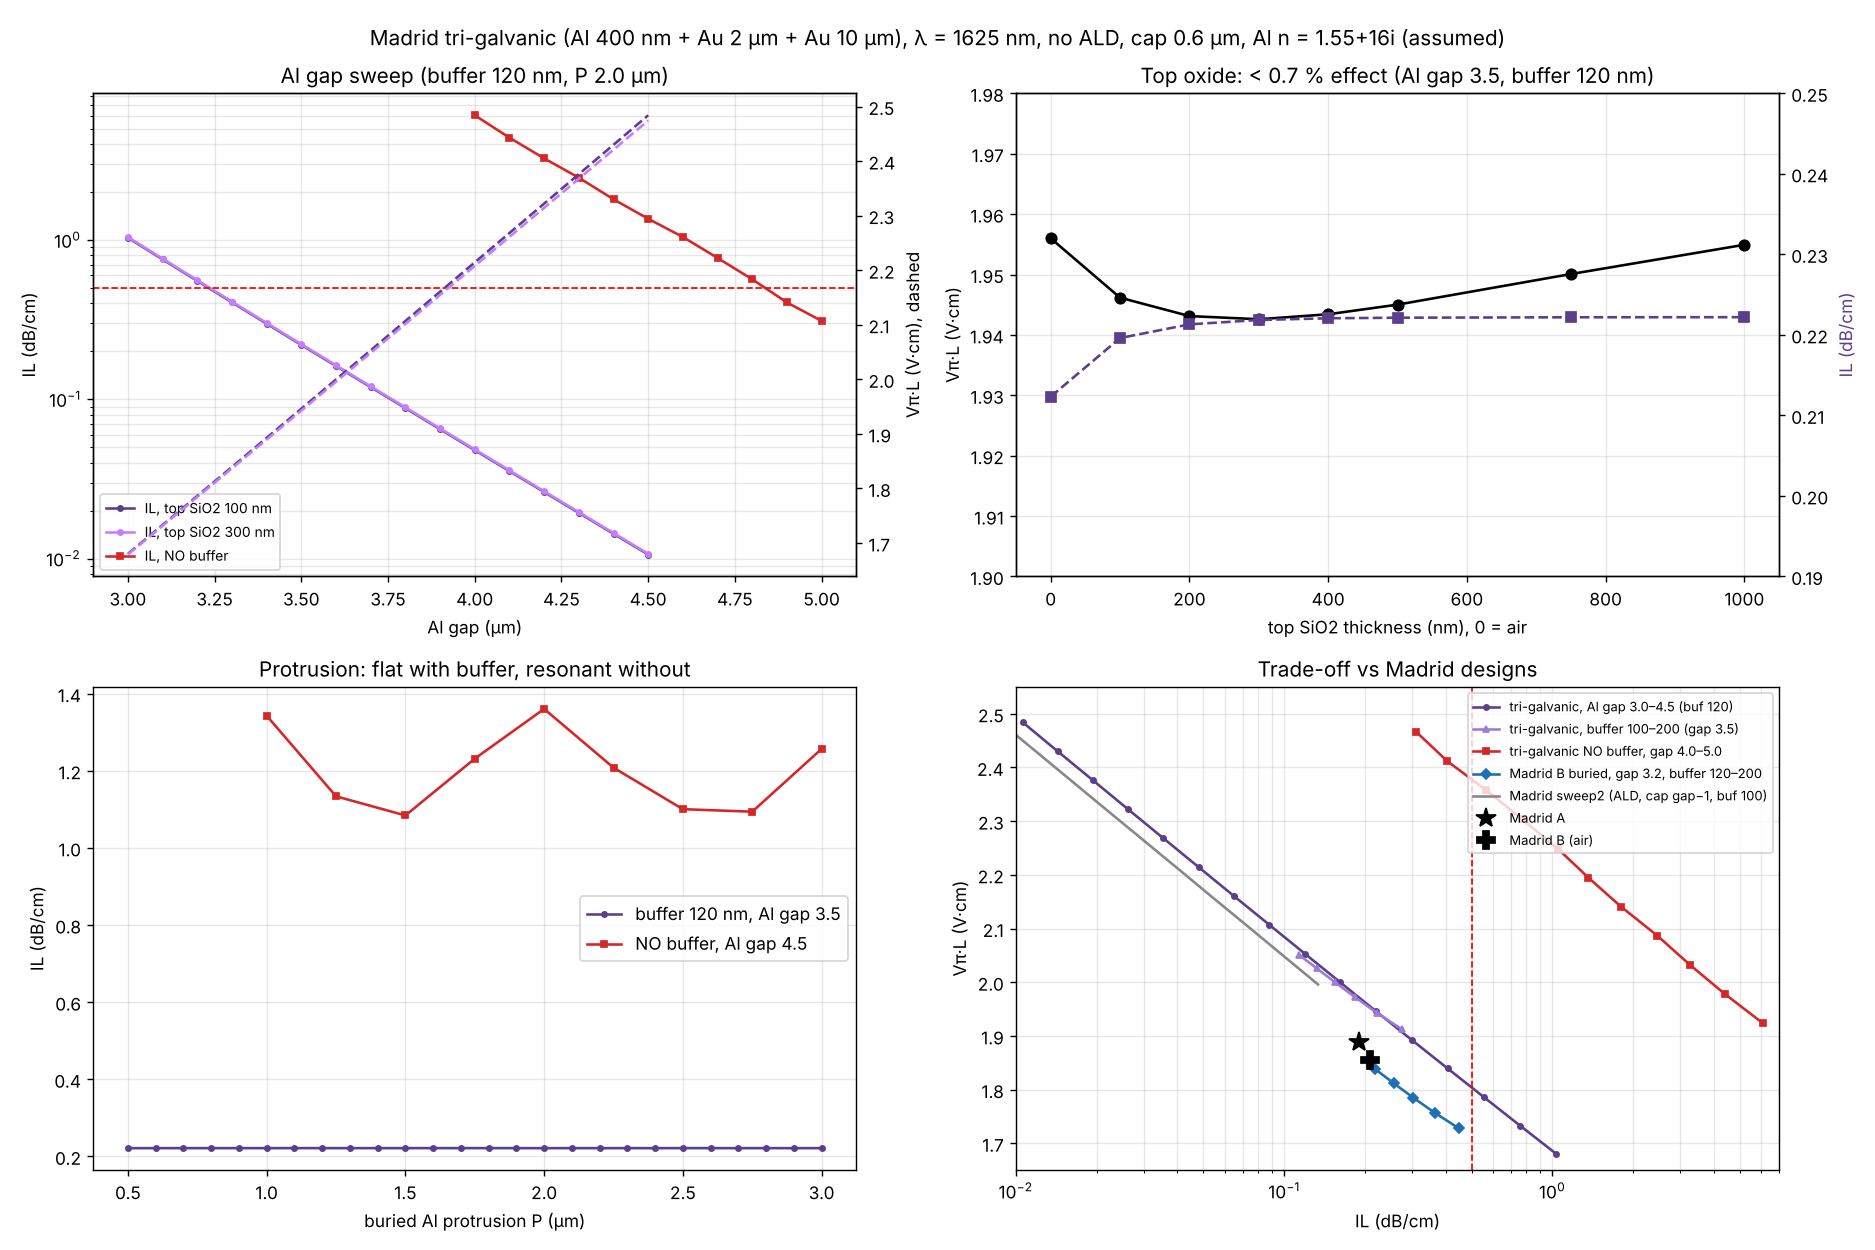
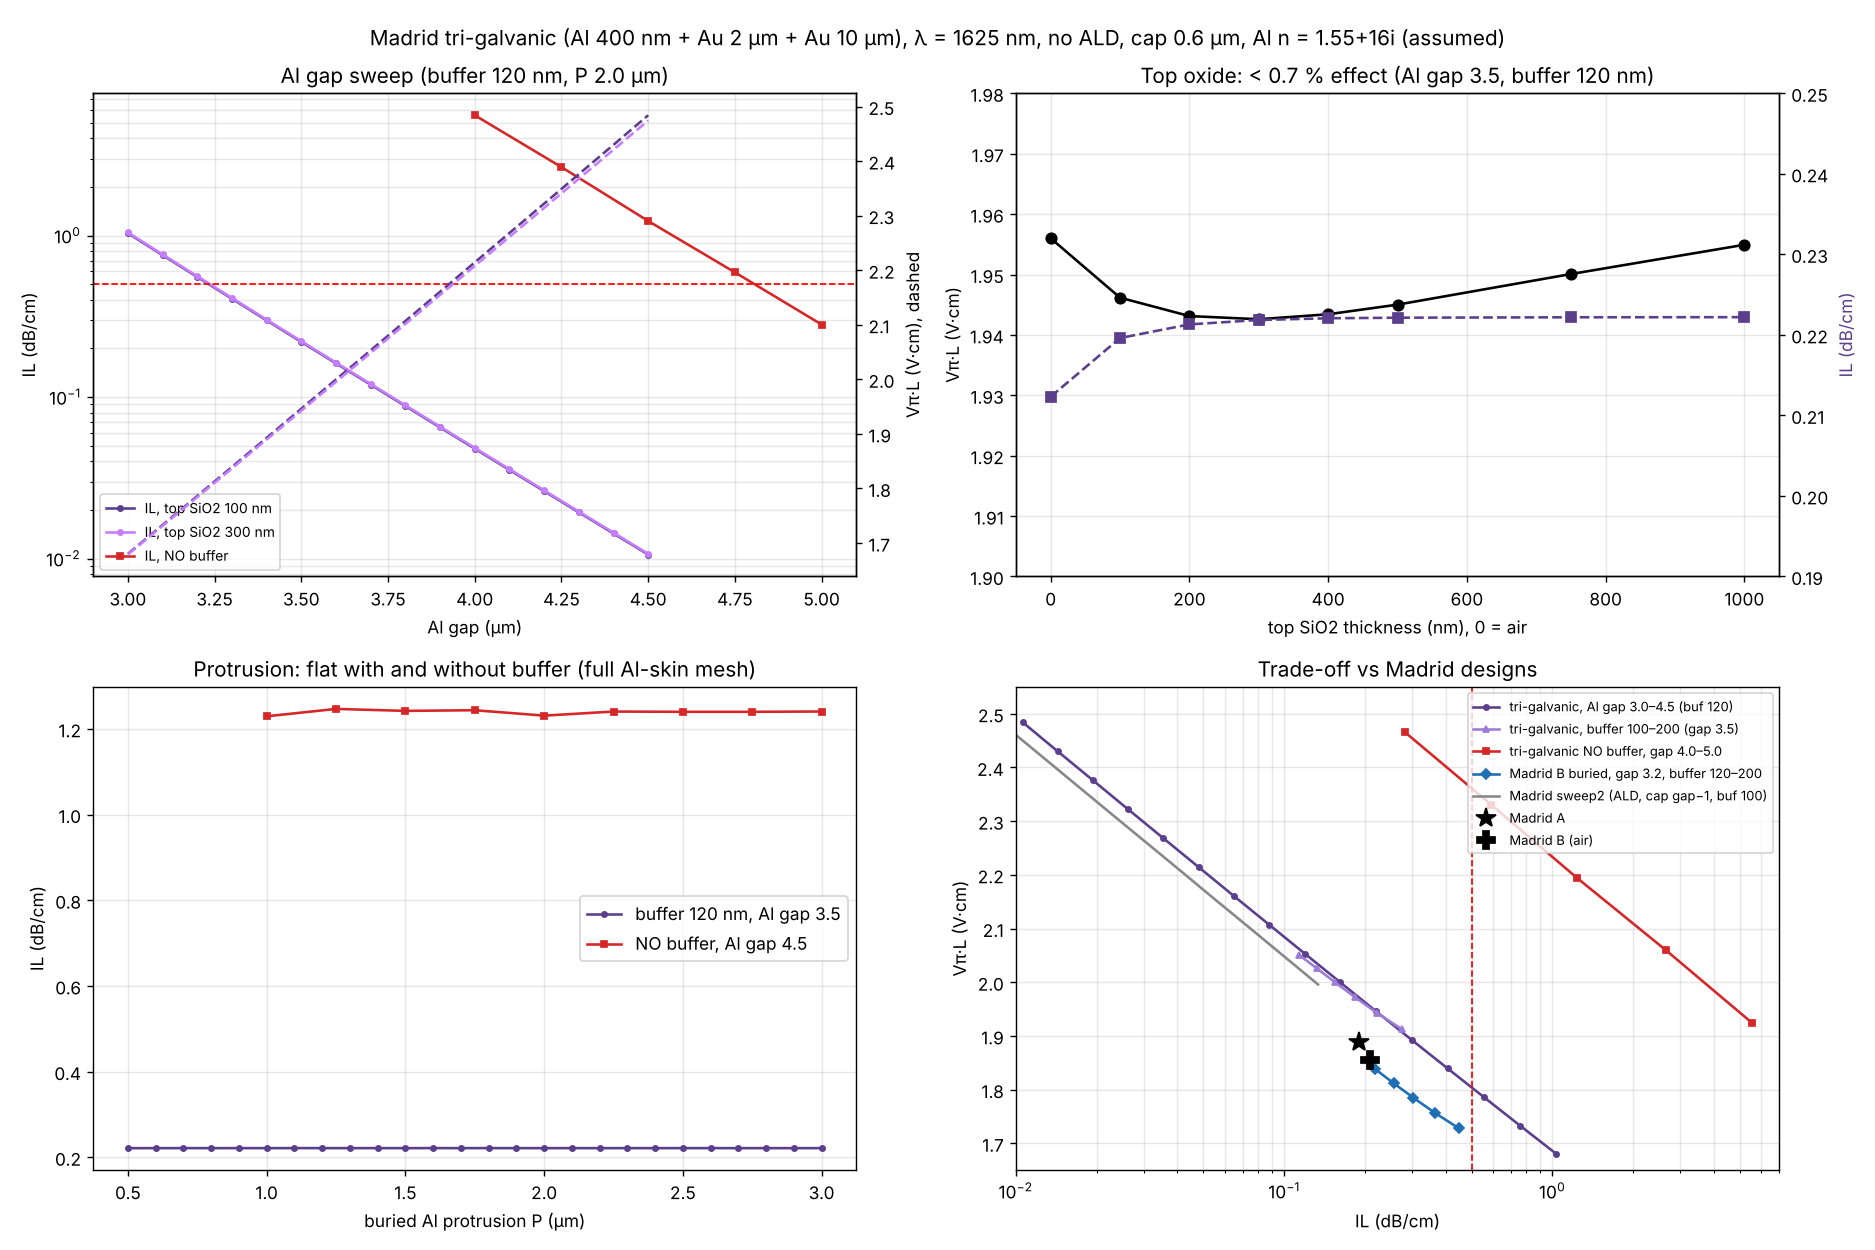
Madrid tri-galvanic: no-buffer P resonance was a mesh artifact; full Al-bottom skin rerun, plot updated
Claude-Session: https://claude.ai/code/session_01EHQDy7yrZwCZyHELu6KFb3

diff --git a/results/madrid/trigalv/analyse_tg.py b/results/madrid/trigalv/analyse_tg.py
@@ -1,5 +1,7 @@
 import json,numpy as np,matplotlib;matplotlib.use('Agg');import matplotlib.pyplot as plt
 R=[json.loads(l[7:]) for l in open('sweep.txt') if l.startswith('RESULT')]
+F=[json.loads(l[7:]) for l in open('sweep_fs.txt') if l.startswith('RESULT')]
+R=[r for r in R if r['buf']>0]+[r for r in F if r['buf']==0]   # no-buffer: full Al-bottom skin mesh only (old mesh had an artificial mirror)
 q=lambda **k:sorted([r for r in R if all(abs(r[a]-v)<1e-9 for a,v in k.items())],key=lambda r:r[[a for a in ('g_al','buf','tox','p') if a not in k][0]])
 f,ax=plt.subplots(2,2,figsize=(15,10))
 a=ax[0,0]
@@ -18,7 +20,7 @@ a.set_title('Top oxide: < 0.7 % effect (Al gap 3.5, buffer 120 nm)');a.grid(alph
 a=ax[1,0]
 s=q(g_al=3.5,buf=0.12,tox=0.2);a.plot([r['p'] for r in s],[r['IL_dBcm'] for r in s],'o-',ms=3,c='#5b3f8c',label='buffer 120 nm, Al gap 3.5')
 s=q(g_al=4.5,buf=0.0,tox=0.2);a.plot([r['p'] for r in s],[r['IL_dBcm'] for r in s],'s-',ms=4,c='#d62728',label='NO buffer, Al gap 4.5')
-a.set_xlabel('buried Al protrusion P (µm)');a.set_ylabel('IL (dB/cm)');a.set_title('Protrusion: flat with buffer, resonant without');a.grid(alpha=.3);a.legend()
+a.set_xlabel('buried Al protrusion P (µm)');a.set_ylabel('IL (dB/cm)');a.set_title('Protrusion: flat with and without buffer (full Al-skin mesh)');a.grid(alpha=.3);a.legend()
 a=ax[1,1]
 s=q(buf=0.12,tox=0.1,p=2.0);a.semilogx([r['IL_dBcm'] for r in s],[r['VpiL_Vcm'] for r in s],'o-',ms=3,c='#5b3f8c',label='tri-galvanic, Al gap 3.0–4.5 (buf 120)')
 s=q(g_al=3.5,tox=0.2,p=2.0);s=[r for r in s if r['buf']>0];a.semilogx([r['IL_dBcm'] for r in s],[r['VpiL_Vcm'] for r in s],'^-',ms=4,c='#9d7cd8',label='tri-galvanic, buffer 100–200 (gap 3.5)')

diff --git a/results/madrid/trigalv/run_tg.py b/results/madrid/trigalv/run_tg.py
@@ -17,7 +17,7 @@ src, n = re.subn(r'np\.where\(mat_of_el == "Au_gnd"\)', 'np.where(np.isin(mat_of
 t0 = time.time(); g = {}
 exec(compile(pre + src, "nb", "exec"), g)
 import numpy as np
-res = dict(g_al=G, buf=B, tox=TX, p=P, au1_gap=G + 2 * P, tri=int(g["skfem_mesh"].nelements), neff=float(g["n_eff"].real),
+res = dict(full_skin=bool(os.environ.get("FULL_SKIN")), g_al=G, buf=B, tox=TX, p=P, au1_gap=G + 2 * P, tri=int(g["skfem_mesh"].nelements), neff=float(g["n_eff"].real),
            IL_dBcm=float(g["att_opt_dB_cm"]), VpiL_Vcm=float(g["Vpi_L_Vcm"]), gamma=float(abs(g["overlap"])), t_s=round(time.time() - t0, 1))
 try:
     from skfem import Functional

diff --git a/results/madrid/trigalv/tg_geom.py b/results/madrid/trigalv/tg_geom.py
@@ -58,6 +58,8 @@ def build_polygons():
     patches = unary_union([pr, mirror(pr)])
     xs_al = _xg + 1.5                                   # fine Al skin out to 1.5 um under Au1
     skA = box(_xa, yb, xs_al, yal).difference(box(_xa + SKIN_A, yb + SKIN_A, xs_al, yal - SKIN_A))
+    if os.environ.get("FULL_SKIN"):          # fine skin along the WHOLE Al bottom (Al/LN or Al/buffer interface)
+        skA = unary_union([skA, box(_xa, yb, X_EL_OUT, yb + SKIN_A)])
     skA = unary_union([skA, mirror(skA)])
     skE = unary_union([box(_xg, yal, _xg + SKIN_T, y1)]); skE = unary_union([skE, mirror(skE)])
     polys = OrderedDict()
